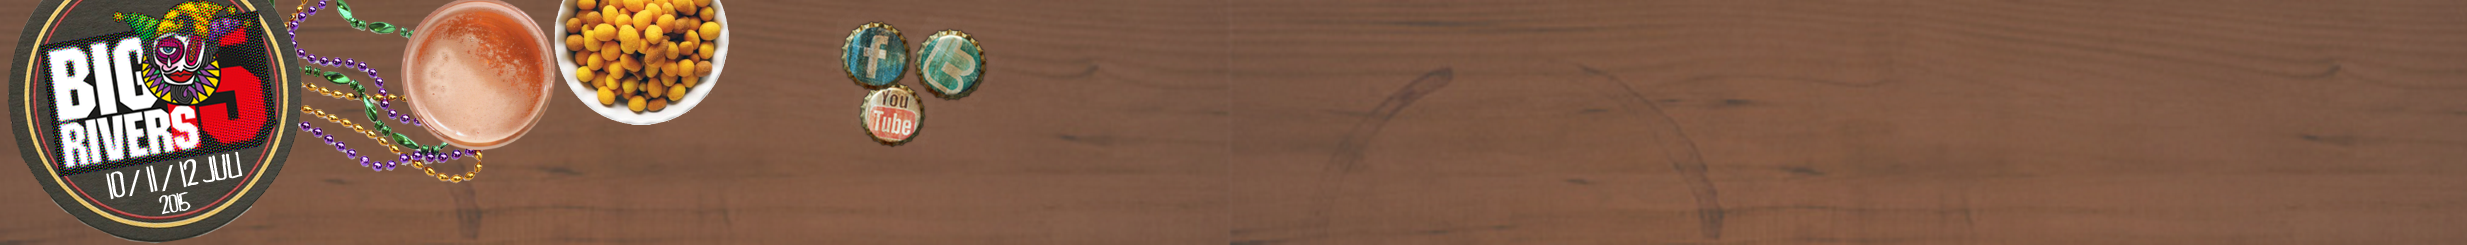
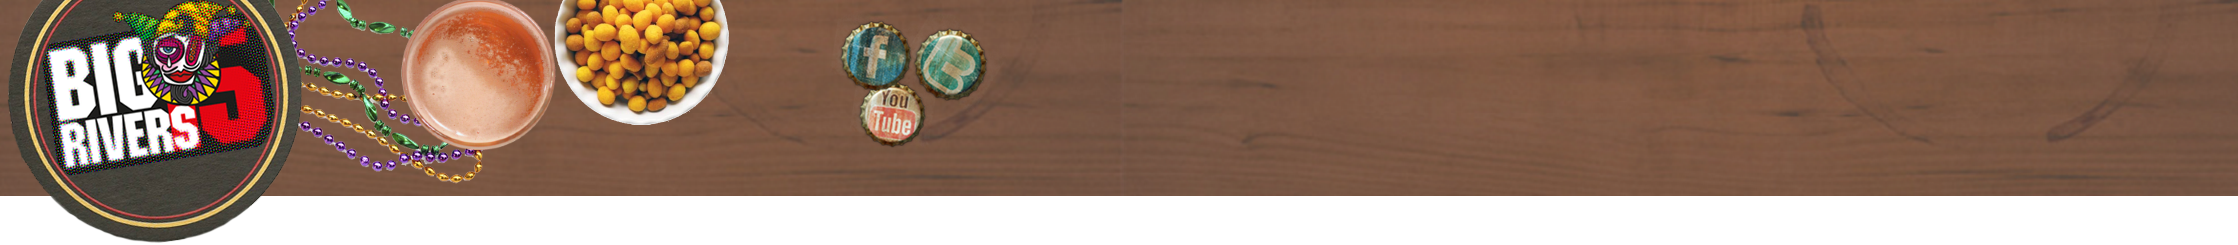
Changed header

diff --git a/src/Bigrivers.Client/Bigrivers.Client.WebApplication/Content/Site.css b/src/Bigrivers.Client/Bigrivers.Client.WebApplication/Content/Site.css
@@ -46,6 +46,12 @@ h1.page-title {
     margin-left: 15px;
 }
 
+@media(max-width: 1600px ) {
+    .navbar-nav {
+        margin-left: 200px;
+    }
+}
+
 /* Styling for the News Archive */
 div.news-archive div.news-item {
     height: auto;
@@ -65,10 +71,19 @@ div.news-archive p a {
 }
 
 .header {
-        margin-top: -50px;
-        width: 100%;
-        overflow: hidden;
-    }
+    position: relative;
+    margin-top: -50px;
+    width: 100%;
+    overflow: hidden;
+    margin-bottom: -49px;
+    z-index: 1100;
+    pointer-events: none;
+}
+
+.menuitem-link {
+    position: relative;
+    z-index: 1200;
+}
 
 @media(min-width: 768px ) {
     .menuimg {
@@ -85,6 +100,13 @@ div.news-archive p a {
         color: black;
     }
 }
+
+.beads-left {
+    position: absolute;
+    float: left;
+    margin-top: -15px;
+}
+
 /* Frontpage Buttons*/
 /* sm-md size screen*/
 @media (min-width: 768px) {
